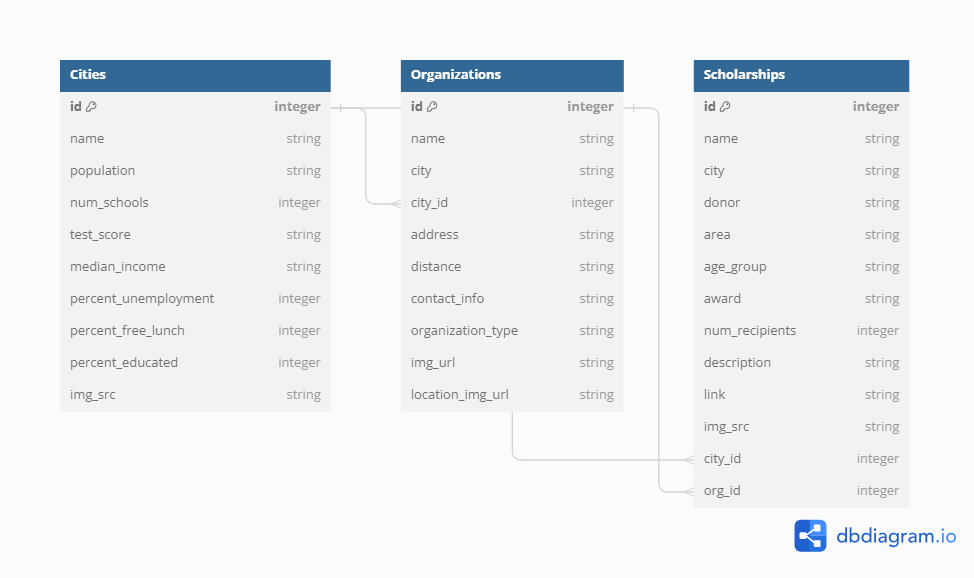
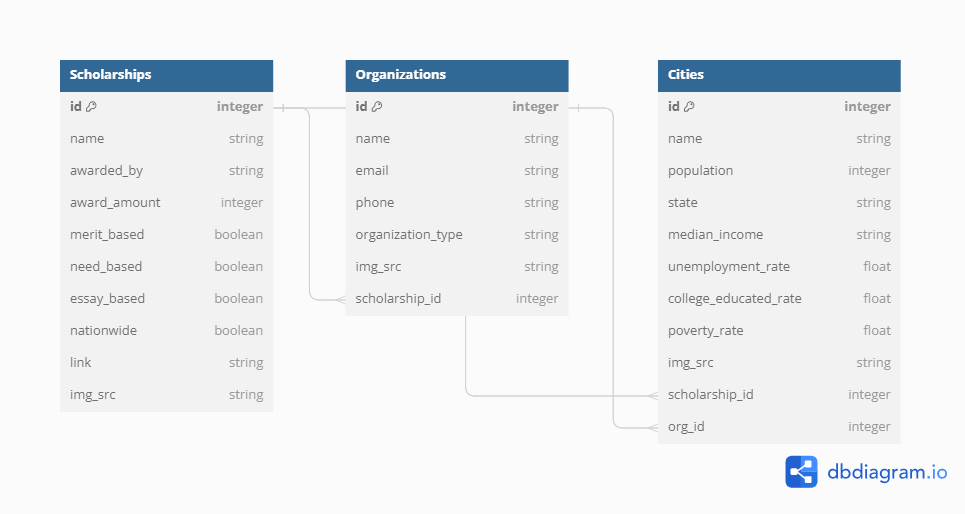
modified db diagram and backend tests

diff --git a/back-end/tests.py b/back-end/tests.py
@@ -10,38 +10,45 @@ class Tests(unittest.TestCase):
     def testAllScholarships(self):
         response = self.client.get("/scholarships")
         self.assertEqual(response.status_code, 200)
-        scholarships = response.json
+        scholarships = response.json["Scholarships"]
         self.assertIsNotNone(scholarships)
+        self.assertEqual(len(scholarships), 50)
+        
     
     def testSingleScholarship(self):
         response = self.client.get("/scholarships/1")
         self.assertEqual(response.status_code, 200)
-        scholarship = response.json
+        scholarship = response.json["Scholarship"]
         self.assertIsNotNone(scholarship)
+        self.assertEqual(scholarship["id"], 1)
 
     def testAllOrganizations(self):
         response = self.client.get("/organizations")
         self.assertEqual(response.status_code, 200)
-        organizations = response.json
+        organizations = response.json["Organizations"]
         self.assertIsNotNone(organizations)
+        self.assertEqual(len(organizations), 100)
     
     def testSingleOrganization(self):
         response = self.client.get("/organizations/1")
         self.assertEqual(response.status_code, 200)
-        organization = response.json
+        organization = response.json["Organization"]
         self.assertIsNotNone(organization)
+        self.assertEqual(organization["id"], 1)
 
     def testAllCities(self):
         response = self.client.get("/cities")
         self.assertEqual(response.status_code, 200)
-        cities = response.json
+        cities = response.json["Cities"]
         self.assertIsNotNone(cities)
+        self.assertEqual(len(cities), 150)
     
     def testSingleCity(self):
         response = self.client.get("/cities/1")
         self.assertEqual(response.status_code, 200)
-        city = response.json
+        city = response.json["City"]
         self.assertIsNotNone(city)
+        self.assertEqual(city["id"], 1)
 
 if __name__ == "__main__":
     unittest.main()
